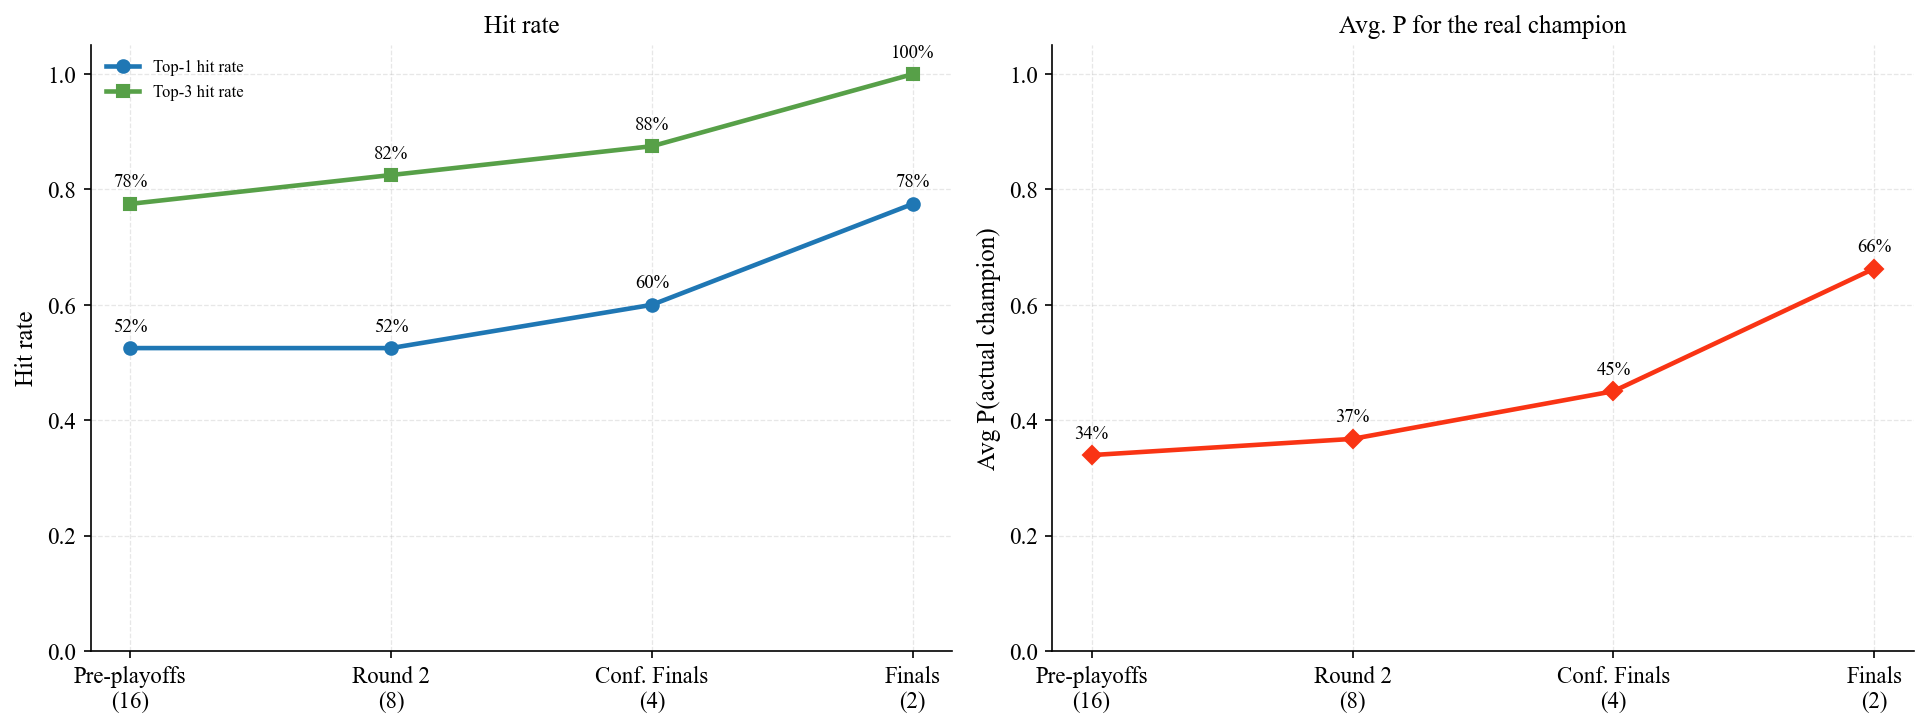
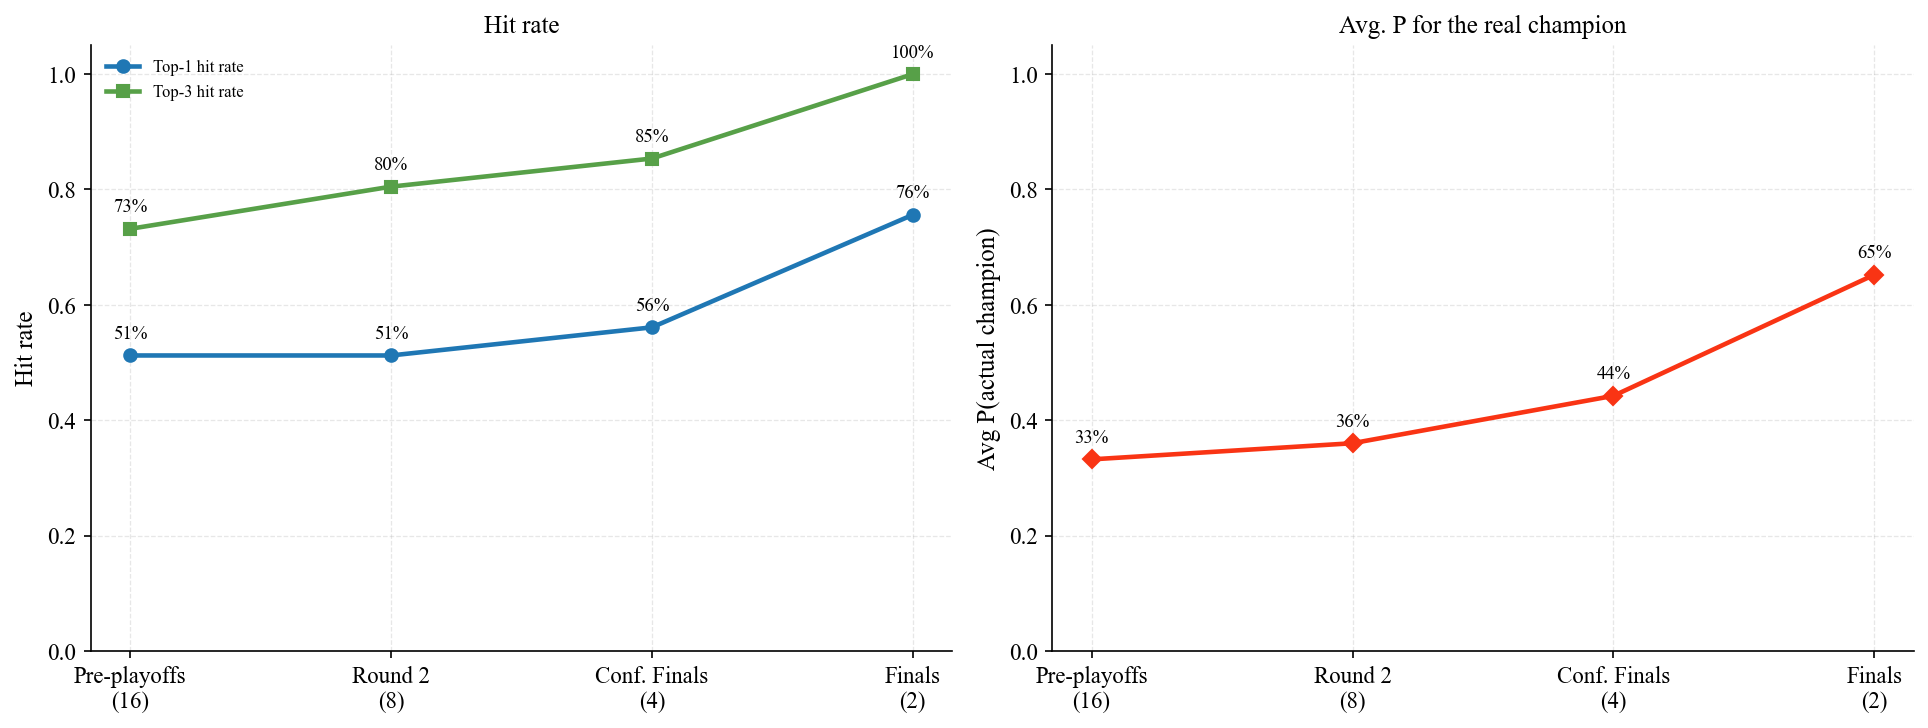
bracket plots 41 seasons

diff --git a/scripts/generate_docs_plots.py b/scripts/generate_docs_plots.py
@@ -20,6 +20,7 @@ sys.path.insert(0, str(ROOT))
 from src import bracket, plot_style, series  # noqa: E402
 
 DATA = ROOT / "data" / "processed"
+DASH_DATA = ROOT / "dashboard" / "data"
 DOCS = ROOT / "docs"
 DOCS.mkdir(exist_ok=True)
 
@@ -89,19 +90,35 @@ def bo7_amplifier():
 
 
 # -------------------------------------------------------------------------- c)
+def _champion_ranks():
+    """Per season: where the real champion sat in the model's list, and its odds.
+
+    Reads dashboard/data/playoff_odds.parquet rather than the notebook 08 output,
+    so this covers 41 seasons including 2026 and agrees with the dashboard.
+    """
+    odds = pd.read_parquet(DASH_DATA / "playoff_odds.parquet")
+    out = {}
+    for col in ["p_pre", "p_after_r1", "p_after_r2", "p_after_r3"]:
+        ranked = odds.assign(rank=odds.groupby("season")[col].rank(ascending=False,
+                                                                  method="first"))
+        champs = ranked[ranked.is_champion].sort_values("season")
+        out[col] = champs[["season", "rank", col]].rename(columns={col: "p"})
+    return out
+
+
 def bracket_backtest():
-    """docs/bracket_backtest.png — 1x2 from notebook 08 (rank histogram + per-season conf)."""
-    bt = pd.read_csv(DATA / "bracket_backtest.csv")
+    """docs/bracket_backtest.png — 1x2, rank histogram + per-season confidence."""
+    bt = _champion_ranks()["p_pre"]
 
     fig, axes = plt.subplots(1, 2, figsize=(14, 5))
 
-    axes[0].hist(bt.actual_champ_rank, bins=range(1, 18),
+    axes[0].hist(bt["rank"], bins=range(1, 18),
                  color=plot_style.COLORS["primary"], edgecolor="white")
     axes[0].set_title("Real champion's rank")
     axes[0].set_xlabel("Rank in model's top list")
     axes[0].set_ylabel("Number of seasons")
 
-    axes[1].plot(bt.season, bt.actual_champ_p, marker="o",
+    axes[1].plot(bt.season, bt.p, marker="o",
                  color=plot_style.COLORS["secondary"])
     axes[1].axhline(1 / 16, color=plot_style.COLORS["neutral"], linestyle="--",
                     label="random (1/16)")
@@ -118,38 +135,34 @@ def bracket_backtest():
 
 # -------------------------------------------------------------------------- d)
 def conditional_confidence():
-    """docs/conditional_confidence.png — 1x2 from notebook 09."""
-    df = pd.read_csv(DATA / "conditional_predictions.csv")
-    summary = df.groupby("start_round").agg(
-        top1=("rank_actual", lambda r: (r == 1).mean()),
-        top3=("rank_actual", lambda r: (r <= 3).mean()),
-        avg_p=("p_actual", "mean"),
-    )
-    labels = {1: "Pre-playoffs\n(16)", 2: "Round 2\n(8)",
-              3: "Conf. Finals\n(4)", 4: "Finals\n(2)"}
-    x = [labels[i] for i in summary.index]
+    """docs/conditional_confidence.png — 1x2, how the odds sharpen by round."""
+    states = _champion_ranks()
+    labels = ["Pre-playoffs\n(16)", "Round 2\n(8)", "Conf. Finals\n(4)", "Finals\n(2)"]
+    top1 = [(s["rank"] == 1).mean() for s in states.values()]
+    top3 = [(s["rank"] <= 3).mean() for s in states.values()]
+    avg_p = [s.p.mean() for s in states.values()]
 
     fig, axes = plt.subplots(1, 2, figsize=(13, 5))
 
-    axes[0].plot(x, summary.top1, marker="o", linewidth=2.2,
+    axes[0].plot(labels, top1, marker="o", linewidth=2.2,
                  color=plot_style.COLORS["primary"], label="Top-1 hit rate")
-    axes[0].plot(x, summary.top3, marker="s", linewidth=2.2,
+    axes[0].plot(labels, top3, marker="s", linewidth=2.2,
                  color=plot_style.COLORS["accent"], label="Top-3 hit rate")
     axes[0].set_ylim(0, 1.05)
     axes[0].set_ylabel("Hit rate")
     axes[0].set_title("Hit rate")
     axes[0].legend()
-    for col in [summary.top1, summary.top3]:
+    for col in [top1, top3]:
         for i, v in enumerate(col):
             axes[0].annotate(f"{v:.0%}", (i, v), textcoords="offset points",
                              xytext=(0, 8), ha="center", fontsize=9)
 
-    axes[1].plot(x, summary.avg_p, marker="D", linewidth=2.2,
+    axes[1].plot(labels, avg_p, marker="D", linewidth=2.2,
                  color=plot_style.COLORS["secondary"])
     axes[1].set_ylim(0, 1.05)
     axes[1].set_ylabel("Avg P(actual champion)")
     axes[1].set_title("Avg. P for the real champion")
-    for i, v in enumerate(summary.avg_p):
+    for i, v in enumerate(avg_p):
         axes[1].annotate(f"{v:.0%}", (i, v), textcoords="offset points",
                          xytext=(0, 8), ha="center", fontsize=9)
 

diff --git a/README.md b/README.md
@@ -57,13 +57,13 @@ A 60 % per-game probability becomes roughly 71 % over a best-of-7 series. This i
 
 ![Bracket backtest](docs/bracket_backtest.png)
 
-Across 40 backtested seasons (1983–2024), the actual NBA champion was the model's top pick 52.5 % of the time and within the top 3 picks 75 % of the time. The random baseline is 6.25 %.
+Across 41 backtested seasons (1983–2025), the actual NBA champion was the model's top pick 51.2 % of the time and within the top 3 picks 73.2 % of the time. The random baseline is 6.25 %.
 
 ### Confidence evolves through the playoffs
 
 ![Conditional confidence](docs/conditional_confidence.png)
 
-Average probability assigned to the eventual champion: 34 % before the playoffs, 37 % after round 1, 45 % after the conference semis, 66 % in the finals. Most of the uncertainty lives in round 1. Once the final eight are set, the model gets much sharper.
+Average probability assigned to the eventual champion: 33 % before the playoffs, 36 % after round 1, 44 % after the conference semis, 65 % in the finals. Most of the uncertainty lives in round 1. Once the final eight are set, the model gets much sharper.
 
 ### 2026 playoffs: what the model said, and what happened
 
